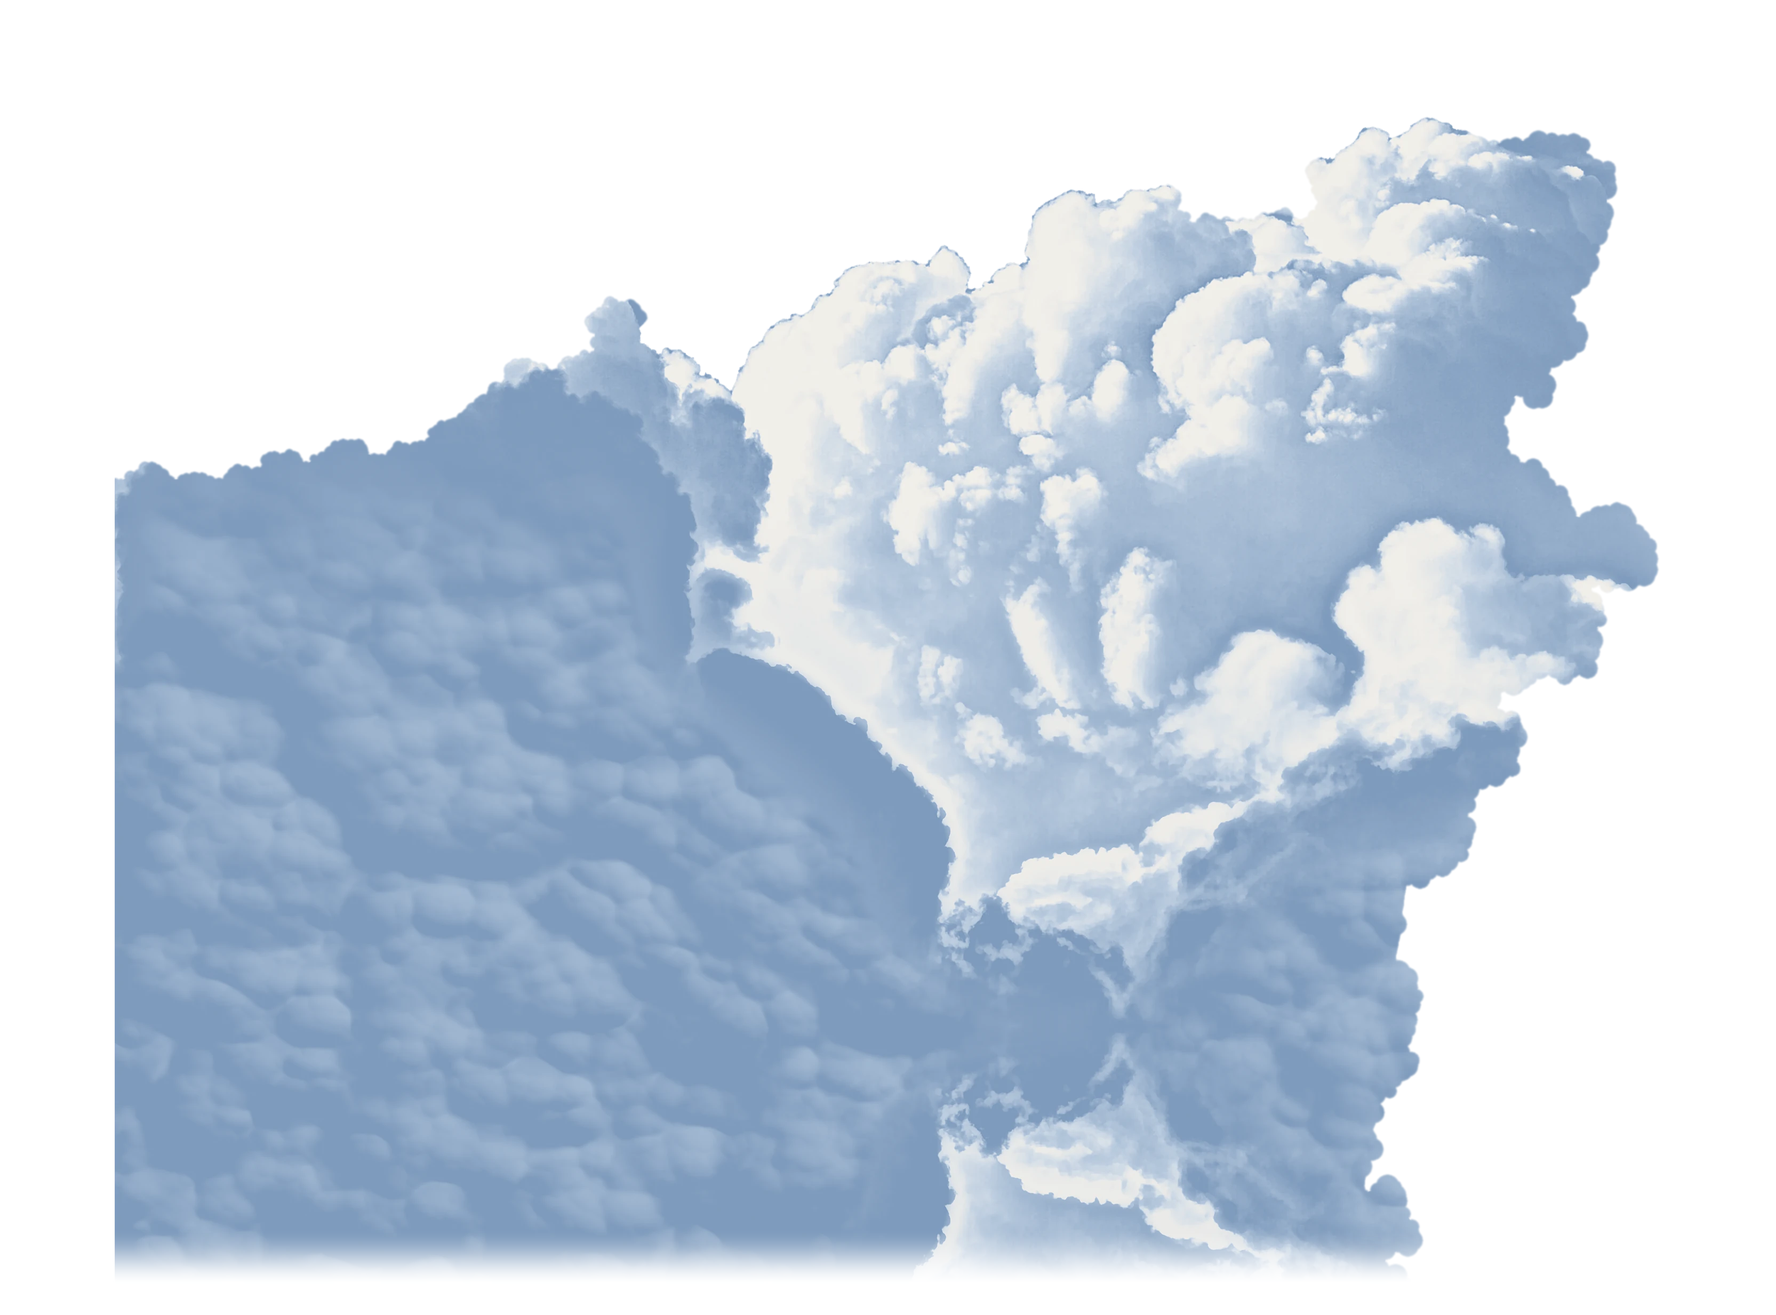
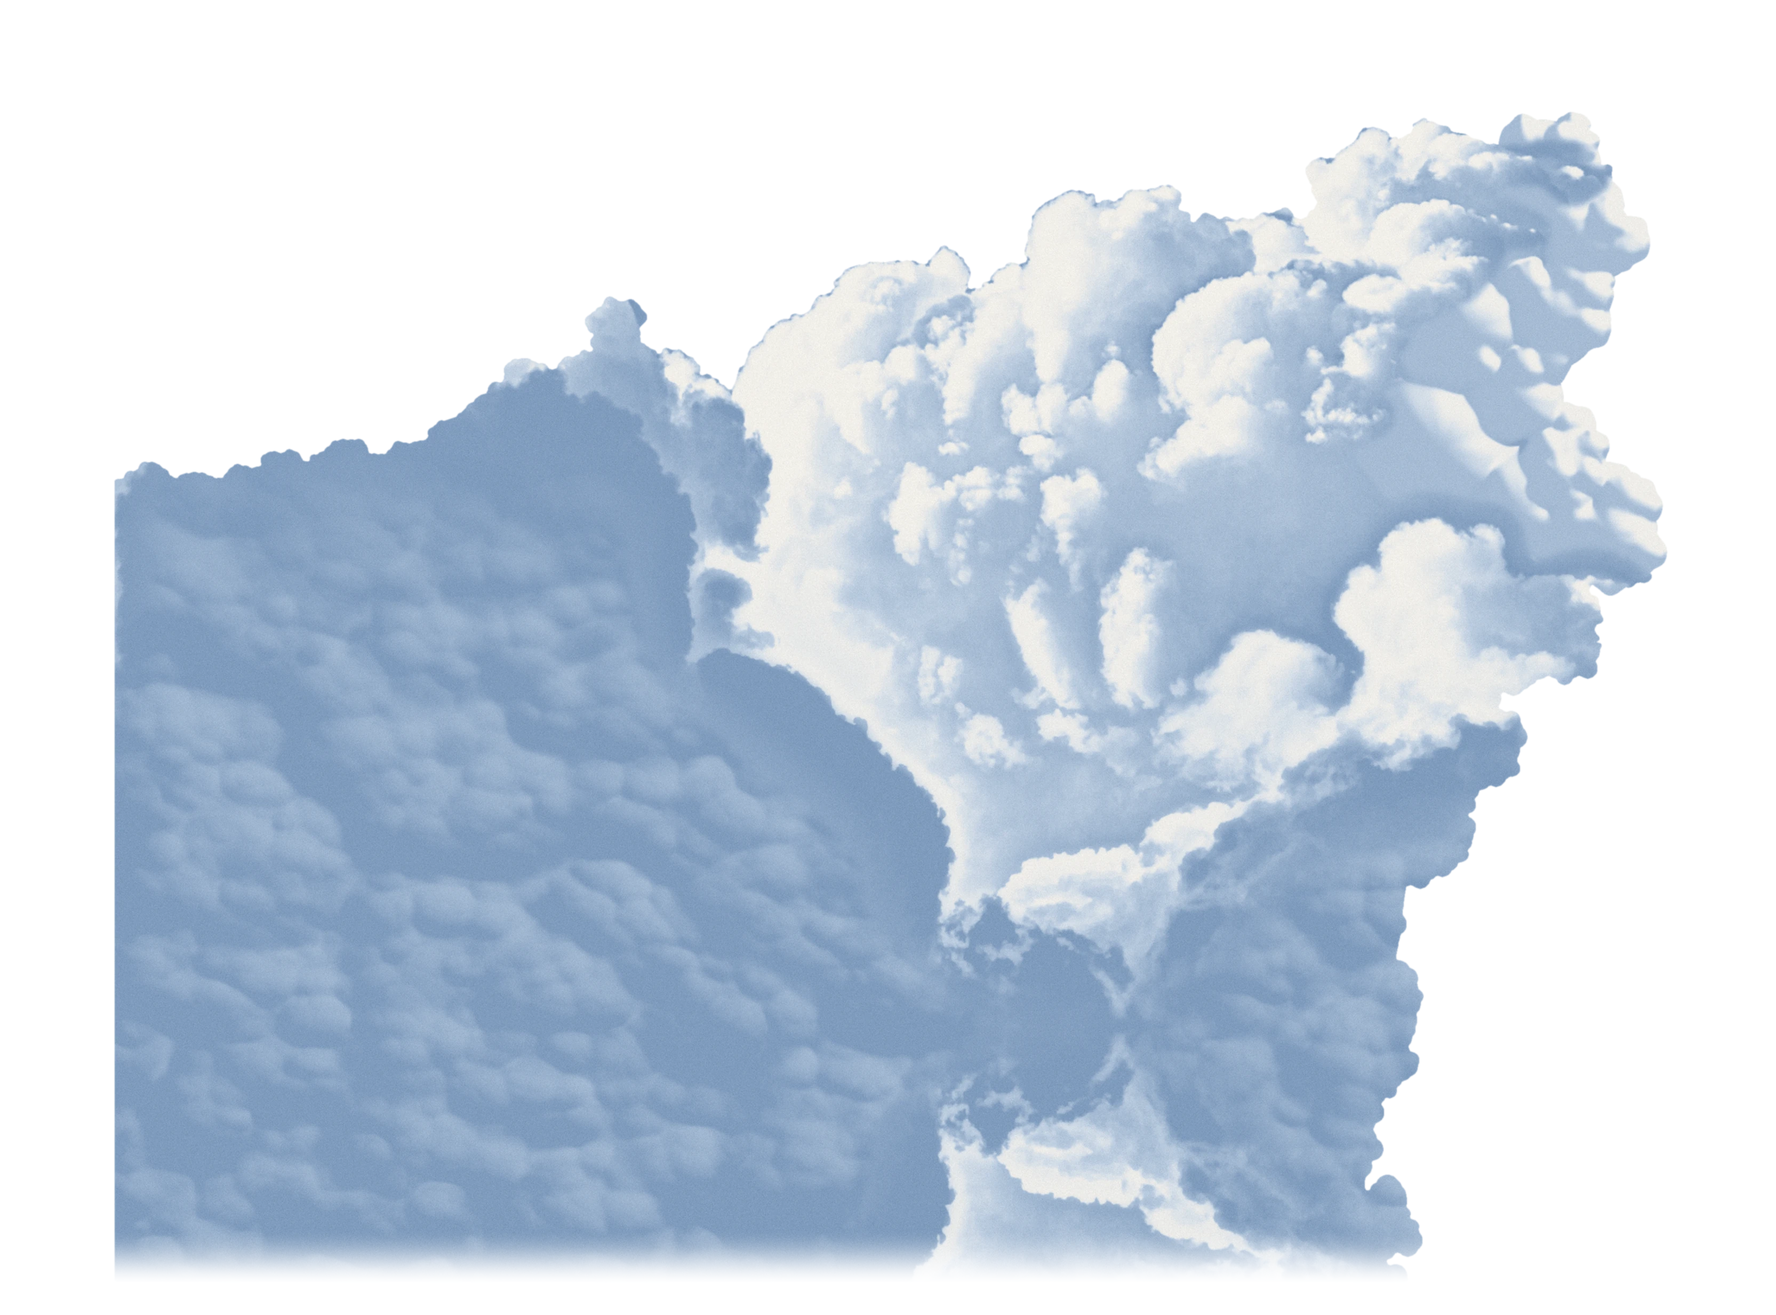
Lab: climb crossing round 1
Claude-Session: https://claude.ai/code/session_01RqENhngNCzDFmJWDZueXGV

Changed region(s): [[0.7808, 0.0937, 0.9369, 0.4684]]

diff --git a/tools/depth/bakes/crossing/cloudlight.py b/tools/depth/bakes/crossing/cloudlight.py
@@ -20,10 +20,9 @@ behind the town; and the crown is a matte grey-white with no light in it.
               and wherever the old edge was a wide soft fade rather than a
               keyed rim (SOFT: the share of px round it that are part
               cloud) the edge is rebuilt as a chain of round lobes (LOBES,
-              common.lobed), so the foot ends in billows, not a smear. Only
-              the outer rim is feathered: RIM sigma px on the keyed edges,
-              a little more where the edge was rebuilt. The tower's own
-              crisp cauliflower edges are kept as keyed.
+              common.lobed), so the foot ends in billows, not a smear. The
+              tower's own cauliflower edges are kept as keyed. (RIM feathers
+              the working alpha only: the card's own edge is the lens's, below.)
   colour      every px that was part sky (and is solid now) takes the colour
               of the cloud just inside it (push-pull from the solid body).
   lobes       the tone is read back off the cumulus ramp (cumulus.TONE) and
@@ -43,6 +42,22 @@ behind the town; and the crown is a matte grey-white with no light in it.
               shade, and every tone passes a shoulder (SHOULDER) that tops out
               at #f4f1ea (244, 241, 234) and never at a flat 255: the film's
               headroom, bloom and halation pick it up as unclipped light.
+  flank       under the crown on the sunward side, behind the crossbuck,
+              the photographed congestus was a far tower in haze: a flat pale
+              blue-grey field meeting the sky along a near-straight edge,
+              which read as a veil and, split, as a cut card. It is cut away
+              and rebuilt as shaded billows (FLANK_LOBES): big lobes stepping
+              down the flank with medium ones on their sunward rims, each a
+              skylight-blue core under a lit warm-neutral rim, carrying the
+              real tower's own fine relief, ending in rounded lobes.
+  lens        keyed and rebuilt clean, the card read as pasted on next to
+              the photo's planes: an edge with no lens in it, a tone with no
+              grain. The silhouette is cut clean and the card (premultiplied)
+              goes through the plate's own blur kernel (LENS_SIG: its edges
+              rise 10-90% over about 2 photo px), so the edge takes the same
+              1-2 px feather as the signal's and the house's and the tone the
+              same softness; then the plate's grain (GRAIN, read off the
+              original frame's open sky) is laid on at photo px.
   mattes      the cloud's matte (plane 1 of the strip) gets the new alpha.
 
 The engine draws the closed photograph from the stack itself, so
@@ -59,7 +74,7 @@ import numpy as np
 from PIL import Image
 
 sys.path.insert(0, os.path.dirname(os.path.abspath(__file__)))
-from common import disk, erode, lobed, pushpull, smoothstep  # noqa: E402
+from common import dilate, disk, erode, lobed, pushpull, smoothstep  # noqa: E402
 from skygrad import _enc, _lin  # noqa: E402
 
 SRC, OUT = sys.argv[1:3]
@@ -126,6 +141,27 @@ GLOW, GLOW_SIG, GLOW_DEEP = 0.3, 50.0, 0.05
 CROWN = (0.6, 0.9)
 SHOULDER = (0.8, 0.22)
 SUN2D = (0.62, -0.78)  # the sun across the view: up and right (cumulus.py)
+# The right flank's billows (see below), card px: big lobes (x, y, radius,
+# z: forward of the flank; the outer ones, z >= FLANK_OUTER, carry the rim
+# lobes), stepping down the flank from the crown's shoulder to the lit
+# lobes over the base, each a little out from or in from the one above;
+# the inner ones fill in behind them.
+FLANK_LOBES = (
+    (2905, 330, 105, 0), (2975, 458, 86, 10), (2915, 590, 100, 0), (2840, 742, 92, 0),
+    (2930, 878, 82, 15), (3018, 1000, 90, 10),
+    (2790, 420, 140, -60), (2760, 620, 150, -70), (2700, 840, 150, -70), (2850, 960, 115, -30), (2640, 560, 120, -90),
+)
+FLANK_OUTER, FLANK_SEED, FLANK_SOFT = -40, 5, 6.0
+FLANK_MED = (42.0, 2.6, 0.55)  # rim lobes: radius px, how many per big lobe's radius, how deep they sit
+FLANK_SUN = np.array([0.62, -0.66, 0.42], np.float32)  # up, right, a little toward us: the flank is side-lit
+FLANK_WRAP = 0.35
+FLANK_TONE = (0.3, 0.93, 0.1)  # on the ramp: the core, the lit rim, the deepest crevice
+FLANK_DET = (800, 10.0, 1.0)  # the real billows: read px to the left, under px, gain
+FLANK_REAL, FLANK_CUT, FLANK_X = (0.02, 0.05), 90, 2600  # billow rms; cut reach px; only right of card x
+# The lens (Gaussian sigma, photo px) and the grain (x255 std at photo px,
+# channel correlation)
+LENS_SIG = 0.65
+GRAIN, GRAIN_CORR, GRAIN_SEED = 2.4, 0.92, 51
 
 
 def rows(v):
@@ -307,6 +343,103 @@ t = t + FORM * body * rel
 # (above the lower body the tone keeps its finest grain, as baked)
 t = t + (1 - body) * (t_raw - t0)
 del t_raw
+
+
+# ---- the right flank: shaded billows where the veil was
+# Under the crown, on the sunward side behind the crossbuck, the photographed
+# congestus is a far tower in haze: on the ramp a flat pale blue-grey field
+# that met the sky along a near-straight edge (a veil, a cut card). It is
+# rebuilt as billows: a stack of big rounded lobes stepping down the flank
+# (FLANK_LOBES, card px: centre, radius, how far forward), medium lobes on
+# their sunward rims (FLANK_MED), the form lit from FLANK_SUN with a wrapped
+# falloff (a cloud scatters: no hard terminator), so each lobe is a
+# skylight-blue core (FLANK_TONE[0] on the ramp, falling to FLANK_TONE[2] in
+# the crevices) under a lit warm-neutral rim (FLANK_TONE[1]). The real
+# tower's own fine relief (its tone's detail under FLANK_DET[1] px, read
+# FLANK_DET[0] px to its left) rides on them, so they carry photographed
+# billows, not smooth clay. The old flat field round them is cut away
+# (within FLANK_CUT px of a lobe, wherever it has no billows of its own), so
+# the flank ends in the lobes' own rounded outline.
+def flank_lobes():
+    hgt = np.full((hh, ww), -1e4, np.float32)
+    rng = np.random.default_rng(FLANK_SEED)
+
+    def put(cx, cy, r, z0):
+        x0, x1 = int(max(0, cx - 1.15 * r - 1)), int(min(ww, cx + 1.15 * r + 2))
+        y0, y1 = int(max(0, cy - 1.15 * r - 1)), int(min(hh, cy + 1.15 * r + 2))
+        if x1 <= x0 or y1 <= y0:
+            return
+        gx_, gy_ = np.meshgrid(np.arange(x0, x1) - cx, np.arange(y0, y1) - cy)
+        th = np.arctan2(gy_, gx_)
+        p = rng.uniform(0, 2 * np.pi, 3)
+        # (no lobe is a true circle)
+        re = r * (1 + 0.05 * np.sin(3 * th + p[0]) + 0.035 * np.sin(5 * th + p[1]) + 0.02 * np.sin(8 * th + p[2]))
+        d2 = (gx_ * gx_ + gy_ * gy_).astype(np.float32)
+        h = np.where(d2 < re * re, z0 + np.sqrt(np.maximum(re * re - d2, 0)) * (r / re), -1e4)
+        # a soft union (over FLANK_SOFT px): lobes meet in a rounded crevice,
+        # not a crease
+        cur = hgt[y0:y1, x0:x1]
+        hi_, lo_ = np.maximum(cur, h), np.minimum(cur, h)
+        hgt[y0:y1, x0:x1] = hi_ + FLANK_SOFT * np.log1p(np.exp(-(hi_ - lo_) / FLANK_SOFT))
+
+    for lb in FLANK_LOBES:
+        put(*lb)
+    # medium lobes on the outer lobes' rims, mostly toward the sun
+    R, per, depth = FLANK_MED
+    s2 = FLANK_SUN[:2] / np.linalg.norm(FLANK_SUN[:2])
+    med = []
+    for cx, cy, r, z in FLANK_LOBES:
+        if z < FLANK_OUTER:
+            continue
+        for _ in range(int(per * r / R)):
+            ang = np.arctan2(s2[1], s2[0]) + rng.normal(0, 1.25)
+            rad = r * rng.uniform(0.55, 0.98)
+            x, y = cx + rad * np.cos(ang), cy + rad * np.sin(ang)
+            ix, iy = round(float(x)), round(float(y))
+            if not (0 <= ix < ww and 0 <= iy < hh) or hgt[iy, ix] < -1e3:
+                continue
+            rc = R * rng.uniform(0.7, 1.3)
+            med.append((x, y, rc, float(hgt[iy, ix]) - depth * rc))
+    for lb in med:
+        put(*lb)
+    return hgt, len(med)
+
+
+hgt, n_med = flank_lobes()
+fl_in = hgt > -1e3
+hs = cv2.GaussianBlur(np.where(fl_in, hgt, -60).astype(np.float32), (0, 0), 4.0)
+gx = cv2.Sobel(hs, cv2.CV_32F, 1, 0, ksize=3) / 8
+gy = cv2.Sobel(hs, cv2.CV_32F, 0, 1, ksize=3) / 8
+nz = 1 / np.sqrt(1 + gx * gx + gy * gy)
+sun_ = FLANK_SUN / np.linalg.norm(FLANK_SUN)
+lam = (-gx * sun_[0] - gy * sun_[1] + sun_[2]) * nz
+fl_lit = np.clip((lam + FLANK_WRAP) / (1 + FLANK_WRAP), 0, 1)
+occ = np.clip((cv2.GaussianBlur(hs, (0, 0), 30) - hs) / 60, 0, 1)
+del gx, gy, nz, lam
+t_core, t_rim, t_deep = FLANK_TONE
+tf = t_core + (t_rim - t_core) * smoothstep(0.55, 0.85, fl_lit)
+tf = tf - (t_core - t_deep) * occ * (1 - 0.6 * smoothstep(0.6, 0.95, fl_lit))
+off, sig, k_det = FLANK_DET
+det = cv2.warpAffine(t0 - mblur(t0, sig), np.float32([[1, 0, -off], [0, 1, 0]]), (ww, hh), flags=cv2.INTER_LINEAR, borderMode=cv2.BORDER_CONSTANT)
+tf = tf + k_det * det * (0.5 + 0.5 * smoothstep(0.4, 0.9, fl_lit))
+del det, occ, hs
+# where the old cloud has billows of its own (the crown's, the lower lobes')
+d1 = t0 - mblur(t0, 4)
+d2 = mblur(t0, 4) - mblur(t0, 16)
+rms = np.sqrt(mblur(d1 * d1 + d2 * d2, 20))
+real = (smoothstep(*FLANK_REAL, rms) > 0.5) & erode(m, 12)
+del d1, d2, rms
+m_old = m
+near_edge = cv2.distanceTransform(m_old, cv2.DIST_L2, 5) < FLANK_CUT * 0.75
+cut = dilate(fl_in, FLANK_CUT) & ~dilate(real, 6) & near_edge & (xx > FLANK_X)
+m = (fl_in | (m_old.astype(bool) & ~cut)).astype(np.uint8)
+m = cv2.morphologyEx(m, cv2.MORPH_OPEN, disk(5))
+m = drop_islands(fill_pockets(m))
+w_fl = cv2.GaussianBlur(dilate(fl_in, 6).astype(np.float32), (0, 0), 3) * (1 - cv2.GaussianBlur(real.astype(np.float32), (0, 0), 6))
+t = t * (1 - w_fl) + tf * w_fl
+print("cloudlight: flank", len(FLANK_LOBES), "lobes,", n_med, "rim lobes; silhouette px changed", int((m != m_old).sum()))
+preview("flank.png", np.dstack([w_fl, tf * fl_in, fl_lit * fl_in]))
+del hgt, fl_in, fl_lit, tf, real, cut, near_edge, w_fl, m_old
 # the glow: a broad soft lift (GLOW over GLOW_SIG px) spreading out of the
 # crown's sunlit lobes and rolling off into the shade. Mostly on the lit
 # faces: the crevices take GLOW_DEEP of it, so the crown's lobes keep their
@@ -334,10 +467,43 @@ def ramp(x):
 
 # mixed in linear light along the ramp, as cumulus.py did
 col = _enc(_lin(ramp(t)))
-# a light unsharp mask in the body keeps the lit edges crisp (cumulus.py)
-core_ = cv2.GaussianBlur(erode(alpha > 0.6, 3).astype(np.float32), (0, 0), 2)
-col = np.clip(col + 0.3 * core_[..., None] * (col - cv2.GaussianBlur(col, (0, 0), 1.6)), 0, 1)
-del core_, t
+del t
+# ---- the lens: the card through the photo plate's own MTF
+# The cloud was keyed and rebuilt as a clean silhouette, and next to the
+# photo's planes it read as pasted on: an edge with no lens in it, a tone
+# with no grain. The plate's edges (the signal, the house, the town, against
+# the sky) rise 10-90% over about 2 photo px, a Gaussian of LENS_SIG photo
+# px over the px's own box. So the silhouette is cut clean (antialiased, a
+# px wide) and then the card, colour premultiplied by its alpha, goes
+# through that same kernel: the edge takes a 1-2 px feather and the tone the
+# same softness as the photograph, instead of the unsharp mask it had.
+a_h = np.clip((cv2.GaussianBlur(m.astype(np.float32), (0, 0), 0.7) - 0.5) * 2.2 + 0.5, 0, 1)
+ks = LENS_SIG * SS / 2  # (card px)
+a_l = cv2.GaussianBlur(a_h, (0, 0), ks)
+pm = cv2.GaussianBlur(col * a_h[..., None], (0, 0), ks)
+col = np.where((a_l > 1e-3)[..., None], pm / np.maximum(a_l, 1e-3)[..., None], col)
+alpha = np.where(a_l > 254.5 / 255, 1.0, np.where(a_l < 1 / 255, 0.0, a_l)).astype(np.float32)
+del a_h, a_l, pm
+# The grain: the original frame's open sky, at the export size, carries
+# about 2/255 of luma noise (std, nearly white at the px, its channels
+# correlated GRAIN_CORR); GRAIN is a little over that, as the card's webp
+# encode takes some of it back. Laid on at photo px and enlarged with the
+# card, so on screen it is the plate's own grain; a little less in the
+# highlights, as on the film.
+rng_g = np.random.default_rng(GRAIN_SEED)
+gw, gh = int(np.ceil(ww * 2 / SS)), int(np.ceil(hh * 2 / SS))
+lum_n = rng_g.standard_normal((gh, gw)).astype(np.float32)
+ch_n = rng_g.standard_normal((gh, gw, 3)).astype(np.float32)
+c_ = np.sqrt(GRAIN_CORR)
+gr = c_ * lum_n[..., None] + np.sqrt(1 - c_ * c_) * ch_n
+del lum_n, ch_n
+gr = cv2.resize(gr, (ww, hh), interpolation=cv2.INTER_CUBIC)
+# (normalised as the plate is read: at photo px)
+gr *= GRAIN / 255 / float(cv2.resize(gr, (gw, gh), interpolation=cv2.INTER_AREA).std())
+y_ = col @ np.array([0.2126, 0.7152, 0.0722], np.float32)
+col = np.clip(col + gr * (1 - 0.2 * smoothstep(0.75, 1.0, y_))[..., None], 0, 1)
+del gr, y_
+solid = alpha > 0.5
 print("cloudlight: brightest px", np.round(np.percentile(col[solid], 99.9, axis=0) * 255).astype(int).tolist(), "max", np.round(col[solid].max(0) * 255).astype(int).tolist())
 
 # ---- the card, its edge fade put back

diff --git a/tools/depth/bakes/crossing/wiretrim.py b/tools/depth/bakes/crossing/wiretrim.py
@@ -1,0 +1,88 @@
+"""Step 5, after catenary.py: take orphan fittings off the wire card (p2).
+
+    python3 -I tools/depth/bakes/crossing/wiretrim.py <srcdir> <outdir>
+
+catenary.py keeps what is not a wire (the insulator, the brackets, the
+junction box) as cut and rides it on the wire it hangs from. One of those,
+a small hook hanging off the thin wire just left of the signal post, sits
+behind the post in the closed photograph; split, the post slides off it and
+it floats in open sky as a ghost hook, a contour with nothing to hang from.
+
+Each DROP box (card px on p2, its wire running through it) is cleared, and
+the wire is drawn back across it: its centre line fitted from the columns
+either side of the box (REF px), its profile (alpha and colour, premultiplied)
+the mean of theirs, laid along that line. Idempotent: run again, it redraws
+the same wire. Reads p2.webp and mattes.png from <srcdir>, writes them to
+<outdir> (the wire card's matte, plane 3 of the strip, from the new card, as
+catenary.py makes it).
+"""
+import os
+import sys
+
+import cv2
+import numpy as np
+from PIL import Image
+
+SRC, OUT = sys.argv[1:3]
+EW, EH = 2048, 1356
+RECT = [-0.2998, 0.03466, 1.22021, 1.19027]  # catenary.py's card (and the engine's)
+MATTE_W, MATTE_H, MATTE_K = 512, 339, 3
+# (x0, y0, x1, y1): the hook under the thin wire, left of the signal post
+DROP = [(1915, 624, 1953, 676)]
+REF = 36  # px of clean wire either side of a box to fit it from
+HALF = 4  # px either side of the centre line that the wire's profile spans
+
+card = np.asarray(Image.open(os.path.join(SRC, "p2.webp")).convert("RGBA")).astype(np.float32) / 255
+A = card[..., 3].copy()
+C = card[..., :3] * A[..., None]  # premultiplied
+H, W = A.shape
+for x0, y0, x1, y1 in DROP:
+    # the wire's centre in the clean columns either side
+    ry0, ry1 = y0 - 24, y1 + 24
+    cols = np.r_[np.arange(x0 - REF, x0 - 2), np.arange(x1 + 2, x1 + REF)]
+    xs, ys = [], []
+    for x in cols:
+        a = A[ry0:ry1, x]
+        w = np.clip(a - 0.1, 0, None)
+        if w.sum() > 0.05:
+            xs.append(x)
+            ys.append(ry0 + float((w * np.arange(len(a))).sum() / w.sum()))
+    line = np.polyfit(xs, ys, 1)
+    # the wire's mean profile across its centre, premultiplied colour and alpha
+    v = np.arange(-HALF, HALF + 0.01, 0.25)
+    prof_a = np.zeros(len(v), np.float32)
+    prof_c = np.zeros((len(v), 3), np.float32)
+    for x in xs:
+        yc = np.polyval(line, x)
+        py = (yc + v).astype(np.float32)[None]
+        px = np.full_like(py, x)
+        prof_a += cv2.remap(A, px, py, cv2.INTER_LINEAR)[0]
+        prof_c += cv2.remap(C, px, py, cv2.INTER_LINEAR)[0]
+    prof_a /= len(xs)
+    prof_c /= len(xs)
+    # clear the box and lay the wire back across it
+    gy, gx = np.mgrid[y0:y1, x0:x1].astype(np.float32)
+    d = gy - np.polyval(line, gx)
+    A[y0:y1, x0:x1] = np.interp(d, v, prof_a, left=0, right=0)
+    for k in range(3):
+        C[y0:y1, x0:x1, k] = np.interp(d, v, prof_c[:, k], left=0, right=0)
+    print(f"wiretrim: cleared {x0},{y0}..{x1},{y1}; the wire refitted from {len(xs)} columns, slope {line[0]:.3f}, peak alpha {prof_a.max():.2f}")
+
+col = np.where((A > 1e-4)[..., None], C / np.maximum(A, 1e-4)[..., None], card[..., :3])
+q = np.clip(np.round(np.dstack([col, A]) * 255), 0, 255).astype(np.uint8)
+os.makedirs(OUT, exist_ok=True)
+Image.fromarray(q, "RGBA").save(os.path.join(OUT, "p2.webp"), quality=90, alpha_quality=100, method=6, exact=False)
+print("wrote p2.webp", W, "x", H)
+
+# ---- the wire card's matte (catenary.py)
+strip = np.asarray(Image.open(os.path.join(SRC, "mattes.png")).convert("L")).copy()
+full = np.zeros((EH, EW), np.float32)
+ox, oy = round(-RECT[0] * EW), round(-RECT[1] * EH)
+y0c, x0c = max(0, -oy), max(0, -ox)
+src_y0, src_x0 = max(0, oy), max(0, ox)
+hh, ww = min(EH - y0c, H - src_y0), min(EW - x0c, W - src_x0)
+full[y0c:y0c + hh, x0c:x0c + ww] = A[src_y0:src_y0 + hh, src_x0:src_x0 + ww]
+m = np.clip(cv2.resize(full, (MATTE_W, MATTE_H), interpolation=cv2.INTER_AREA) * 2.5, 0, 1)
+strip[MATTE_K * MATTE_H:(MATTE_K + 1) * MATTE_H] = np.round(m * 255).astype(np.uint8)
+Image.fromarray(strip, "L").save(os.path.join(OUT, "mattes.png"), optimize=True)
+print("wrote mattes.png (plane", MATTE_K, ")")

diff --git a/tools/depth/bakes/crossing/cumulus.py b/tools/depth/bakes/crossing/cumulus.py
@@ -51,8 +51,11 @@ crossing's cloud ramp.
   card       the cloud sits on a transparent margin (PAD) and its alpha is
              feathered to 0 well inside all four edges besides, so no
              straight card edge can show at any split, yaw or pitch. Baked
-             at SS card px per 2 photo px, so the edges stay crisp under the
-             print's magnification.
+             at SS card px per 2 photo px, so the edges stay clean under the
+             print's magnification; their softness (FEATHER here) is a
+             working edge only: cloudlight.py cuts the silhouette clean and
+             puts the whole card through the photo plate's own lens and
+             grain, so it reads as shot through the same lens as the street.
   photo      if <bakedir> holds the bake's pristine planes (p0..p6.webp,
              photo.webp and the 7-plane mattes.png), the sky card becomes the
              clear gradient alone (skygrad.sky_gradient), the flat photograph
@@ -63,7 +66,9 @@ crossing's cloud ramp.
 Writes clouds.webp to <outdir> and prints its rect for the engine (PLANES)
 and for cloudlight.py (CLOUD_RECT). The card is finished by cloudlight.py
 (after the later steps): the silhouette's soft edges rebuilt as lobes, the
-sunward crown glowing. CUMULUS_WORK writes previews.
+flat haze of the far tower on the right flank (what CUT_RIGHT leaves of it)
+rebuilt as shaded billows, the sunward crown glowing, the card through the
+plate's lens and grain. CUMULUS_WORK writes previews.
 """
 import os
 import sys

diff --git a/tools/depth/bakes/crossing/bake.py b/tools/depth/bakes/crossing/bake.py
@@ -37,6 +37,9 @@ which may run past the photo: rects in layers.json go below 0 and above 1),
 Then cumulus.py re-plates the sky with real cumulus on a card of its own
 (clouds.webp) and rewrites p0.webp, photo.webp and mattes.png to match, and
 wires.py redraws p2.webp with every wire as one whole catenary, and
+wiretrim.py (after catenary.py) takes an orphan hook (a fitting that
+floats in open sky once the signal post slides off it) off that card and
+draws its wire back, and
 crossbuck.py takes the pale hood out from behind the crossbuck head on
 p5.webp (and photo.webp, mattes.png) and rebuilds the pole cap's outline,
 and townmatte.py keys the old sky out of the town card's top (p1.webp and
@@ -44,8 +47,9 @@ its matte), ends it on the ridge tiles and refills what the signal hides
 there from the town alone, and lamphood.py takes the bristly fringe off the
 signal lamps' outline on p5.webp (and its matte), and cloudlight.py makes
 the clouds card one solid, lit mass (opaque down past the roofline, its
-lower body's lobes at full contrast, a soft glow on the sunward crown) and
-rewrites its matte.
+lower body's lobes at full contrast, the hazy right flank rebuilt as shaded
+billows, a soft glow on the sunward crown, the whole card through the photo
+plate's lens and grain) and rewrites its matte.
 """
 import sys
 import os
